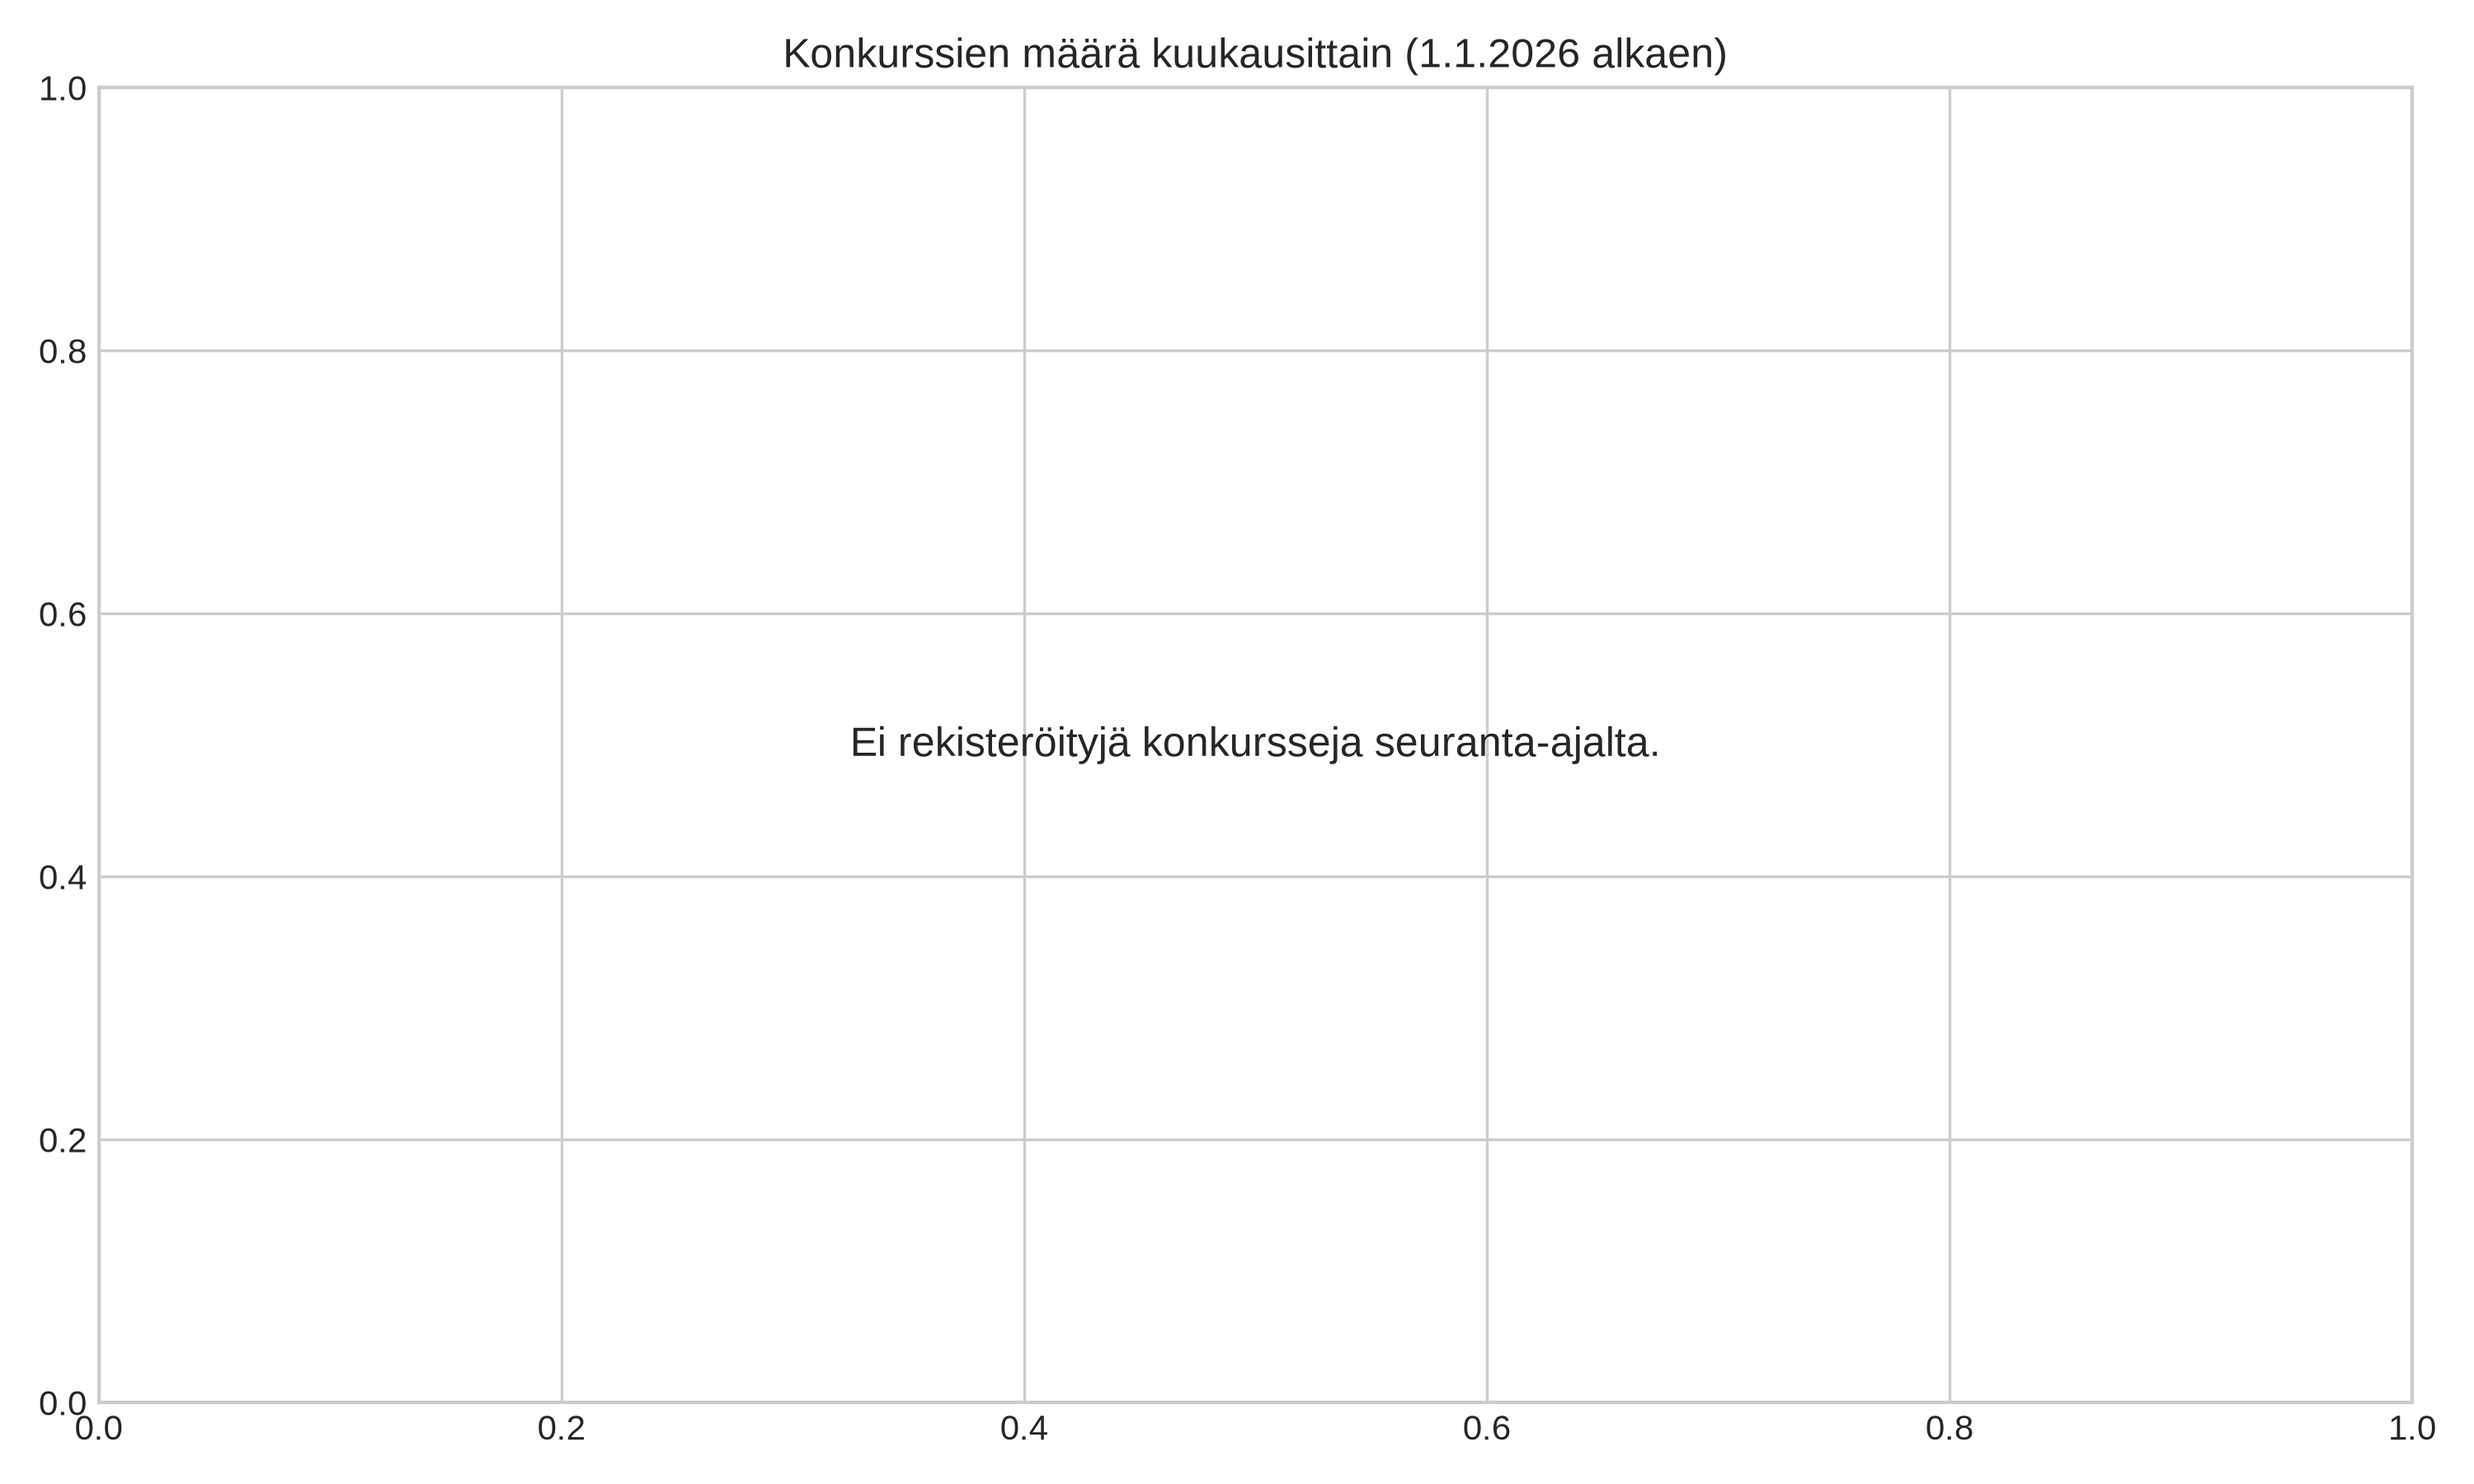
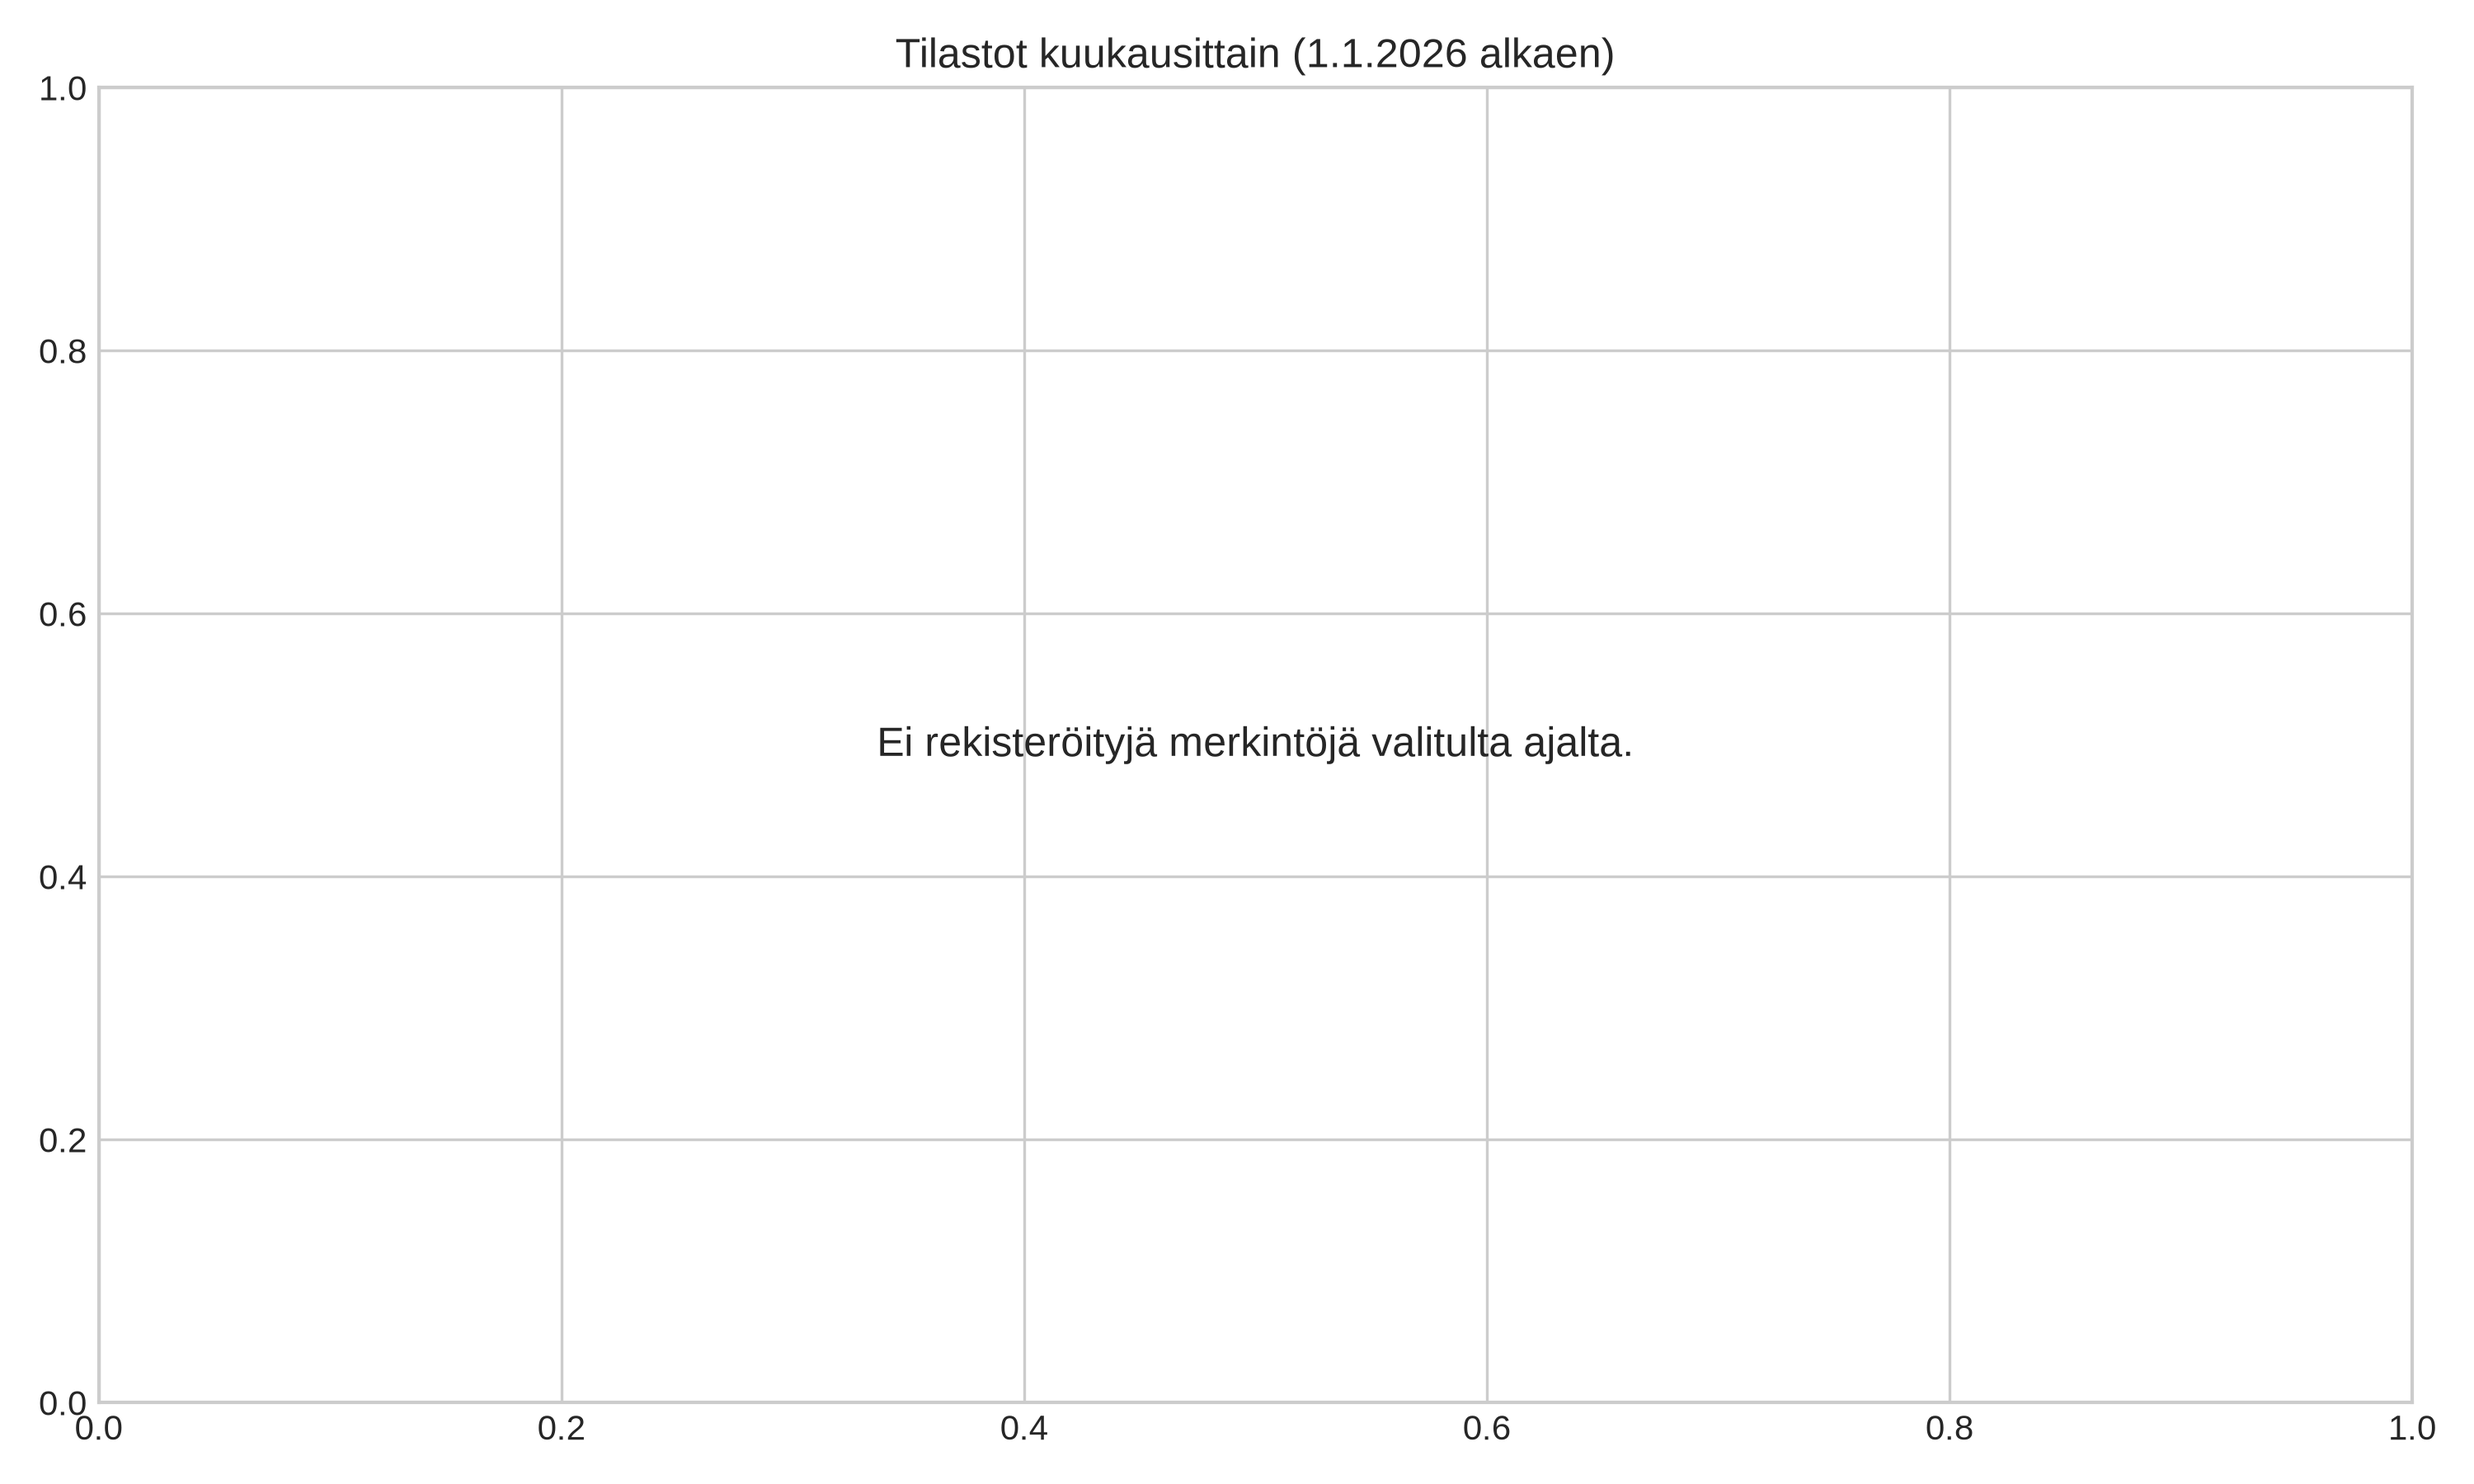
Automaattinen kuukausiraportti

Changed region(s): [[0.341, 0.4667, 0.682, 0.5289], [0.31, 0.0311, 0.682, 0.0622]]

diff --git a/reports/README.md b/reports/README.md
@@ -1,6 +1,6 @@
-# Satakunnan ja lähialueiden konkurssiseuranta
+# Satakunnan ja lähialueiden yritys- ja konkurssiseuranta
 
-**Päivitetty:** 2026-08-28 13:34:25  
+**Päivitetty:** 2026-08-28 13:43:27  
 **Aikaraja:** 1.1.2026 alkaen (Kumulatiivinen)  
 **Seurattavat kunnat (12 kpl):** Eurajoki, Harjavalta, Jämijärvi, Kankaanpää, Karvia, Kokemäki, Merikarvia, Nakkila, Pomarkku, Pori, Siikainen, Ulvila
 
@@ -12,7 +12,7 @@
 
 ---
 
-## 🏭 Konkurssit toimialoittain
+## 🏭 Toimialajakauma
 
 ![Konkurssit toimialoittain](konkurssit_toimialoittain.png)
 
@@ -20,8 +20,8 @@
 
 ## 📋 Yhteenvetotaulukko
 
-_Ei rekisteröityjä konkurssimerkintöjä valitulta ajanjaksolta._
+_Ei rekisteröityjä merkintöjä valitulta ajanjaksolta._
 
 
 ---
-*Raportti luotu automaattisesti PRH:n avoimen rajapinnan (avoindata.prh.fi) pohjalta GitHub Actions -työvuon toimesta.*
+*Raportti luotu automaattisesti PRH:n avoimen rajapinnan pohjalta.*
